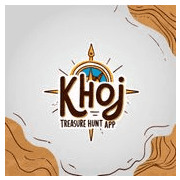
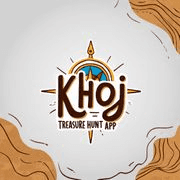
feat: Remove padding from PWA assets

diff --git a/frontend/pwa-assets.config.ts b/frontend/pwa-assets.config.ts
@@ -13,15 +13,11 @@ export default defineConfig({
         },
         maskable: {
             sizes: [512],
-            padding: 0.05  // 5% padding instead of default 20%
+            padding: 0  // No padding
         },
         apple: {
             sizes: [180],
-            padding: 0.05,  // 5% padding for iOS icons
-            resizeOptions: {
-                fit: 'contain',  // Preserve aspect ratio
-                background: { r: 0, g: 0, b: 0, alpha: 0 }  // Transparent background
-            }
+            padding: 0  // No padding for iOS icons
         }
     },
     images: ['public/khoj-logo.jpg'],
